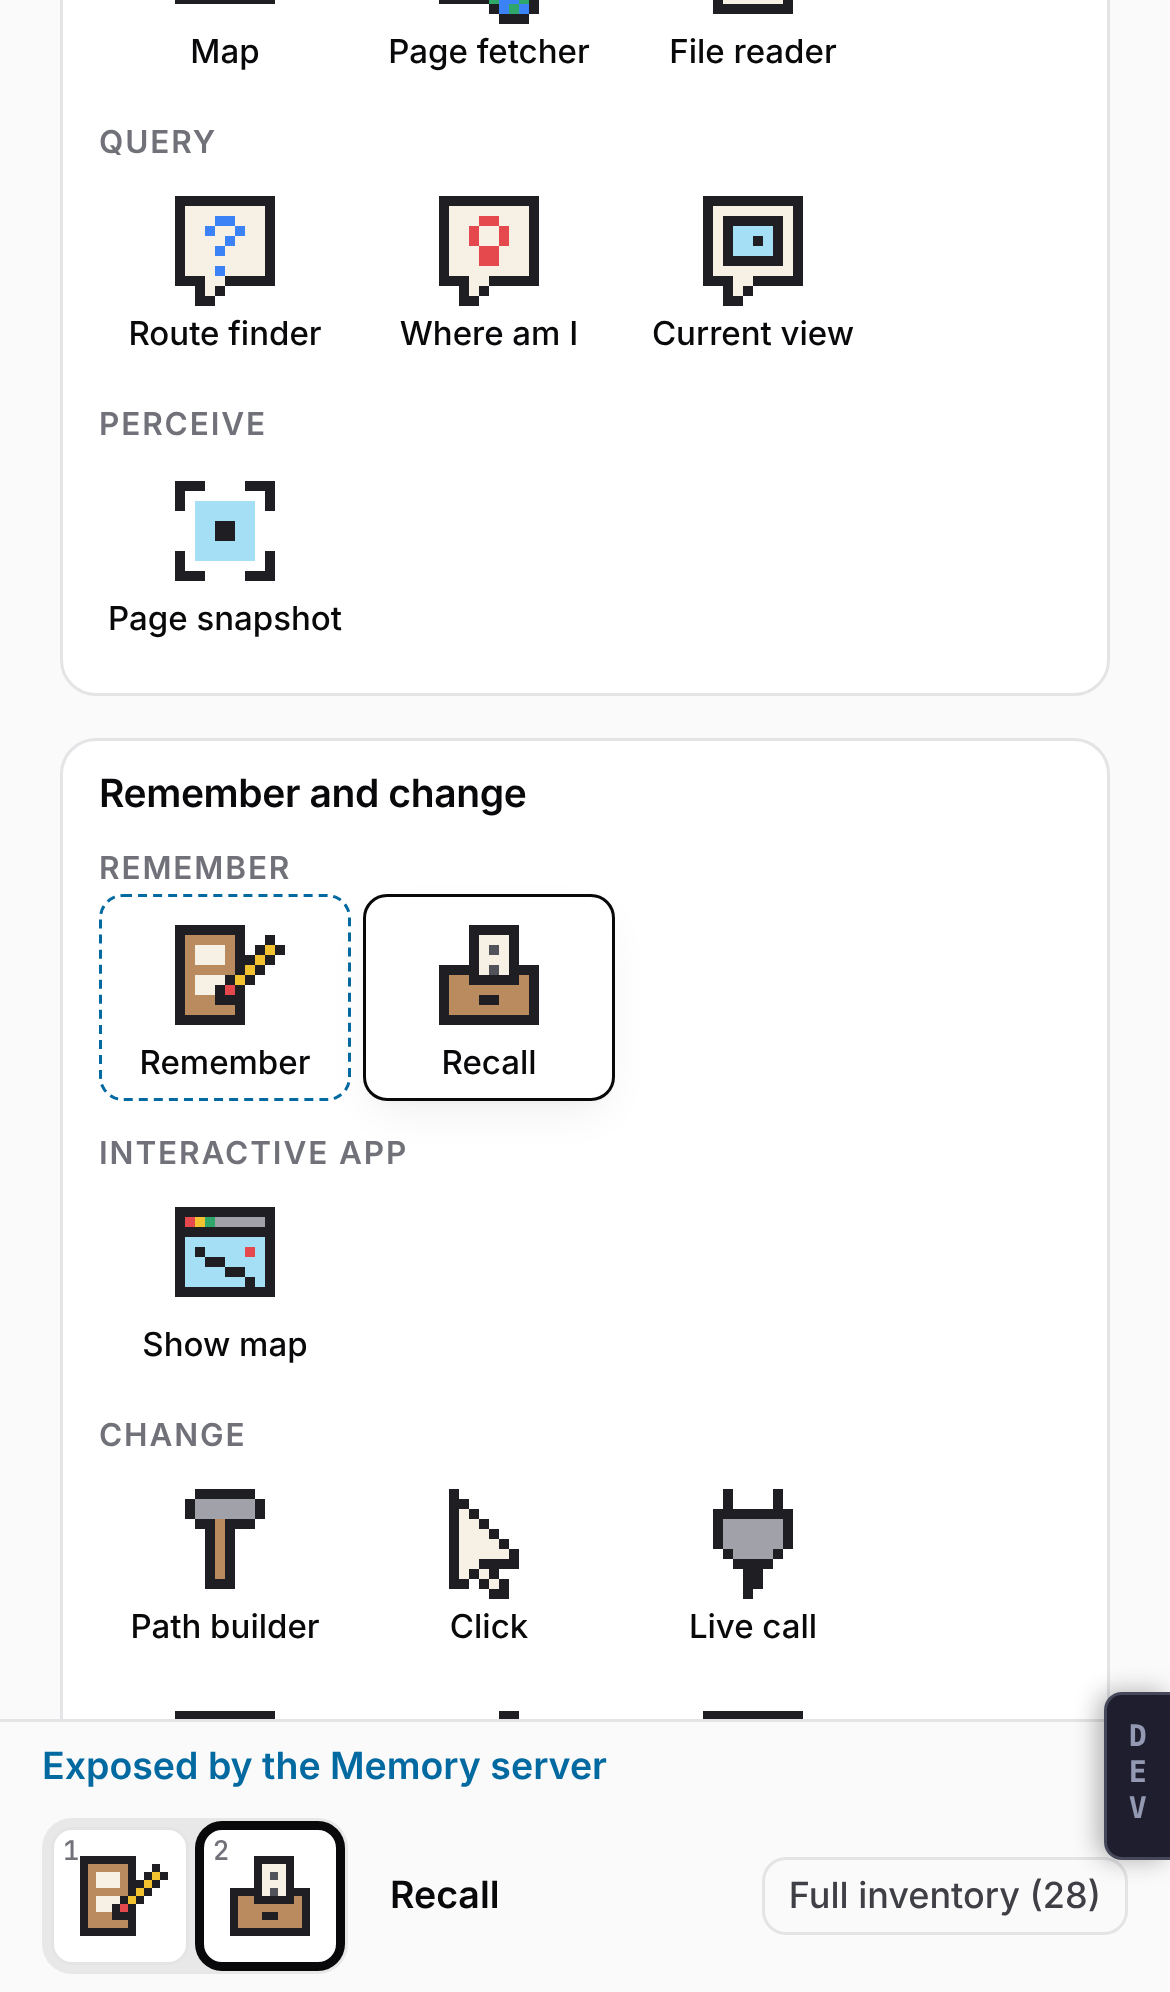
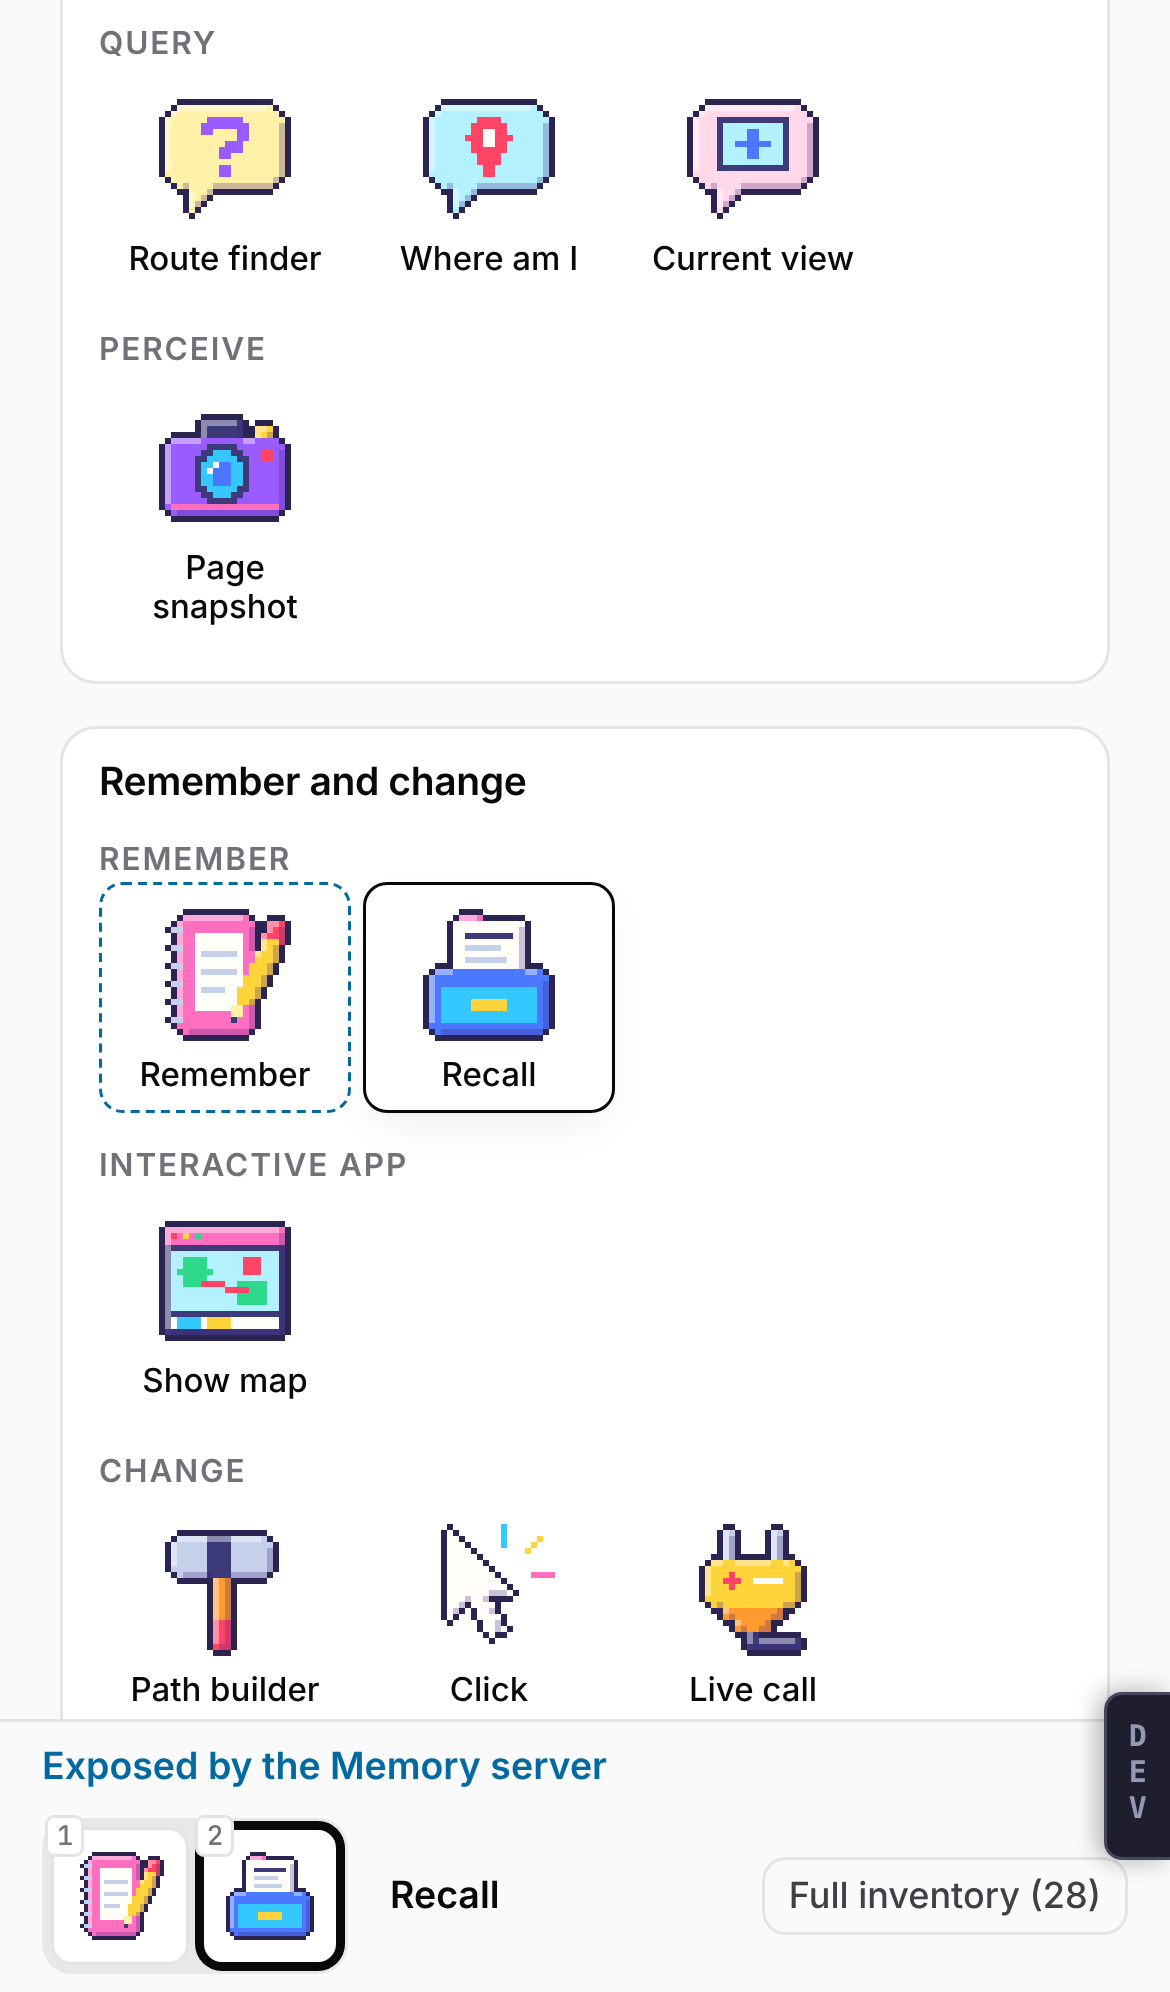
One-click fetch, smaller Backstage drawer, belt and atlas polish
Claude-Session: https://claude.ai/code/session_0117jzdApADgLQR3oTwkaBrm

diff --git a/src/lab/benches.ts b/src/lab/benches.ts
@@ -589,28 +589,18 @@ const fetchBench = (model: Model, h: H): ReadonlyArray<Html> => {
       'Fetch',
       Array.map(siteUrls, url => ({
         label: url.replace('https://valley.test', ''),
-        isChosen: model.url === url,
-        message: Message.SelectedUrl({ value: url }),
+        isChosen: Option.isSome(maybeRecord) && model.url === url,
+        message: Message.ClickedFetch({ url }),
       })),
-      h,
-    ),
-    row(
-      [
-        action(
-          model,
-          `Fetch ${model.url.replace('https://', '')}`,
-          run('fetch_page', { url: model.url }),
-          h,
-          'primary',
-        ),
-      ],
       h,
     ),
     Option.match(maybeRecord, {
       onNone: () =>
         h.p(
           [h.Class('empty')],
-          ['Fetch a page and the chain of hops appears here.'],
+          [
+            'Pick a page above. It is fetched at once and the chain of hops appears here.',
+          ],
         ),
       onSome: record =>
         h.ol(

diff --git a/src/styles.css b/src/styles.css
@@ -111,7 +111,7 @@ h3 {
     'status status status';
 }
 .ide.backstage-open {
-  grid-template-rows: auto minmax(0, 1.3fr) minmax(0, 1fr) auto auto;
+  grid-template-rows: auto minmax(0, 2fr) minmax(0, 1fr) auto auto;
 }
 
 .sidebar {
@@ -1619,6 +1619,9 @@ textarea.console-text {
 .obj:hover {
   background: var(--wash);
 }
+.obj:hover .obj-name {
+  background: transparent;
+}
 .obj[aria-pressed='true'] {
   background: var(--bg);
   border-color: var(--fg);
@@ -1633,6 +1636,9 @@ textarea.console-text {
   height: 48px;
 }
 .obj-name {
+  background: var(--bg);
+  border-radius: 3px;
+  padding: 0 2px;
   font-size: 11px;
   font-weight: 500;
   line-height: 1.2;
@@ -1926,8 +1932,13 @@ textarea.console-text {
 }
 .slot-key {
   position: absolute;
-  top: 1px;
-  left: 3px;
+  top: -5px;
+  left: -3px;
+  z-index: 1;
+  padding: 0 3px;
+  border-radius: 3px;
+  border: 1px solid var(--bd);
+  background: var(--bg);
   font: 500 9px var(--mono);
   color: var(--fg2);
 }

diff --git a/src/lab/view.ts b/src/lab/view.ts
@@ -548,6 +548,14 @@ const titlebarView = (model: Model, h: H): Html =>
 
 // SIDEBAR
 
+const toolCount = (station: Station): string => {
+  const count = Array.filter(
+    catalogue,
+    capability => capability.specimen === station,
+  ).length
+  return count === 1 ? '1 tool' : `${count} tools`
+}
+
 const stationButton = (model: Model, station: Station, h: H): Html =>
   h.button(
     [
@@ -572,12 +580,7 @@ const stationButton = (model: Model, station: Station, h: H): Html =>
         [],
       ),
       h.span([h.Class('t')], [stationTitle(station)]),
-      h.span(
-        [h.Class('n')],
-        [
-          `${Array.filter(catalogue, capability => capability.specimen === station).length} tool(s)`,
-        ],
-      ),
+      h.span([h.Class('n')], [toolCount(station)]),
     ],
   )
 

diff --git a/src/lab/update.ts b/src/lab/update.ts
@@ -773,6 +773,13 @@ export const update = (current: Model, message: Message): UpdateReturn => {
 
     ClickedRunWith: ({ name, inputJson }) => startRun(model, name, inputJson),
 
+    ClickedFetch: ({ url }) =>
+      startRun(
+        modifyFields(model, { url: () => url }),
+        'fetch_page',
+        JSON.stringify({ url }),
+      ),
+
     ClickedSendRoot: ({ root }) => ({
       model: modifyFields(model, {
         rootChoice: () => root,

diff --git a/src/lab/scene.test.ts b/src/lab/scene.test.ts
@@ -131,7 +131,7 @@ describe('the route of specimens', () => {
       Command.resolve(EnterDomain, Message.FailedEnterDomain()),
       expect(text('Simulated here')).toExist(),
       click(role('button', { name: 'First URL only' })),
-      click(role('button', { name: /^Fetch valley\.test/ })),
+      click(role('button', { name: '/notice' })),
       Command.resolve(
         RunCapability,
         Message.CompletedRunCapability({

diff --git a/src/lab/message.ts b/src/lab/message.ts
@@ -51,6 +51,7 @@ export const Message = defineMessageUnion({
   ClickedExecute: {},
   ClickedRun: { name: CapabilityName },
   ClickedRunWith: { name: CapabilityName, inputJson: Schema.String },
+  ClickedFetch: { url: Schema.String },
   ClickedSendRoot: { root: Schema.String },
   ClickedClientEvent: {
     client: Schema.String,

diff --git a/docs/HANDOFF.md b/docs/HANDOFF.md
@@ -1,5 +1,15 @@
 # Handoff
 
+## Follow-up fixes after the atlas — 2026-11-21
+
+- Fetch: a URL chip fetches at once (`ClickedFetch`); the separate Fetch button is gone.
+- Backstage open now takes one third of the column instead of about 43% (observed: workbench 509 px, drawer 253 px at 900 px height).
+- Belt slot numbers sit outside the sprite plate so they stay visible in dark mode; atlas labels get a background so a link line does not run through the text.
+- Sidebar counts read "2 tools" instead of a bare number.
+- Screenshots in `docs/reports/atlas/` re-taken with the 24×24 sprites.
+
+Observed: typecheck, lint, 157 tests, build pass. Headless Chromium re-drive of atlas, belt keys, typing guard, inventory, dark and phone: no page error, no horizontal overflow; Fetch `/notice` in one click produced two hop cards. Not looked at: the phone screenshot of the bench was taken scrolled to the page end, so the belt's position on phones is unverified. Still open: valley map circles are mouse-only; selecting on the atlas does not ask the server.
+
 ## Sprites at 24×24, vivid palette, drawn by a script — 2026-11-21
 
 Owner asked to go further and for "less brown, more vivid anime-style colours". All 28 sprites are now 24×24, built from shapes by `scripts/draw-sprites.mjs`, which writes `src/lab/sprites.ts` (generated; edit the script). The palette is 15 saturated paints with an indigo outline; shading is two overlay paths (white highlight upper-left, violet-tinted shadow lower-right). Atlas objects render at 48 px. Observed: typecheck, lint, 157 tests and build pass; atlas looked at in headless Chromium in light and dark (`docs/reports/atlas/sprites-24-light.png`, `sprites-24-dark.png`). Not looked at after this change: belt, inspector chips (20 px) and phone. Screenshots of the earlier 12×12 and 16×16 sprites in that folder are out of date.
